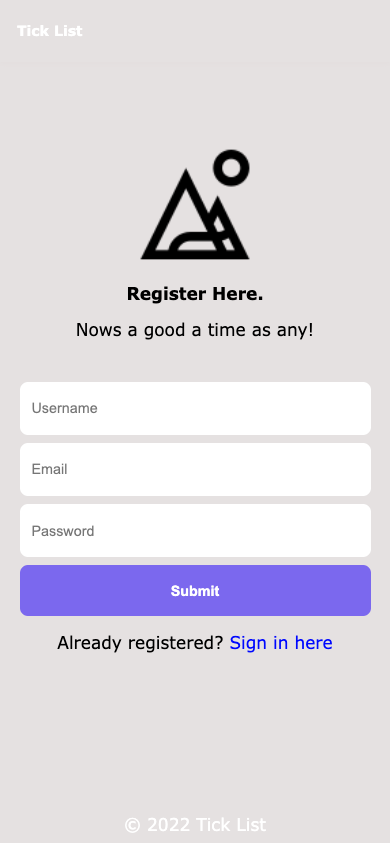
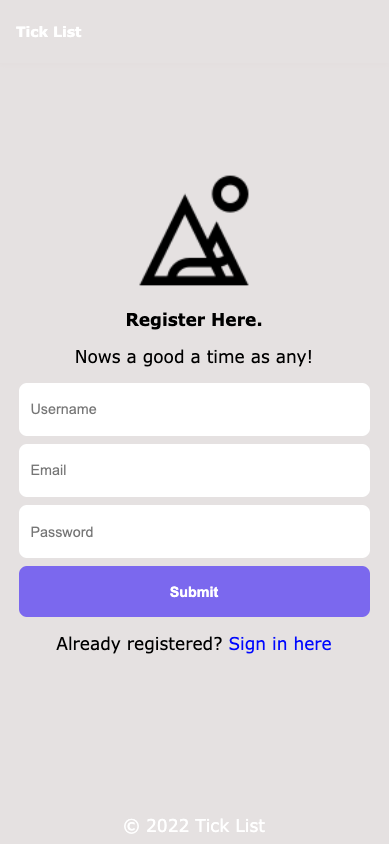
added ToggleBtn component to signin form | repositioned signin & register

diff --git a/client/src/App.js b/client/src/App.js
@@ -16,12 +16,15 @@ import Navbar from './components/Navbar/Navbar';
 import DataForm from './components/DataForm/DataForm';
 import RegisterForm from './components/RegisterForm/RegisterForm';
 import SignInForm from './components/SignInForm/SignInForm';
+import ToggleBtn from './components/ToggleBtn/ToggleBtn';
 import Profile from './pages/Profile/Profile';
 import Chart from 'react-google-charts';
 import TickList from './components/TickList/TickList';
 import Footer from './components/Footer/Footer';
 
+
 const errorLink = onError(({ graphqlErrors, networkError}) => {
+    
     if (graphqlErrors) {
         graphqlErrors.map(({ message, location, path }) => {
           return alert(`Graphql Error ${message}`);
@@ -35,6 +38,7 @@ const httpLink = from ([
 ]);
 
 const authLink = setContext((_, { headers }) => {
+
     const token = localStorage.getItem('id_token');
 
     return {
@@ -45,23 +49,32 @@ const authLink = setContext((_, { headers }) => {
     };
 });
 
-const client = new ApolloClient({
-    link: authLink.concat(httpLink),
-    cache: new InMemoryCache(),
-});
+const client = new ApolloClient(
+    {
+        link: authLink.concat(httpLink),
+        cache: new InMemoryCache(),
+    }
+);
 
 const App = () => {
+
     return (
+
         <ApolloProvider client={client}>
+
             <Router>
+
                 <Navbar />
                 <Routes>
-                    <Route path='/' exact element={ <Home RegisterForm={ RegisterForm } SignInForm={ SignInForm }/> } />
-                    <Route path='/me' exact element={ <Profile DataForm={ DataForm } Chart={ Chart } TickList={ TickList }/>} />
+                    <Route path='/' exact element={ <Home RegisterForm={ RegisterForm } SignInForm={ SignInForm } /> } />
+                    <Route path='/me' exact element={ <Profile DataForm={ DataForm } Chart={ Chart } TickList={ TickList } />} />
                 </Routes>
                 <Footer />
+
             </Router>
+
         </ApolloProvider>
+
     );
 };
 

diff --git a/client/src/components/SignInForm/SignInForm.jsx b/client/src/components/SignInForm/SignInForm.jsx
@@ -2,7 +2,7 @@ import './SignInForm.css';
 import { useState } from 'react';
 import { useMutation } from '@apollo/client';
 import { SIGNIN_USER } from '../../utils/mutations';
-
+import ToggleBtn from '../ToggleBtn/ToggleBtn';
 import Auth from '../../utils/auth';
 
 const SignInForm = ({ handleForm }) => {
@@ -66,7 +66,9 @@ const SignInForm = ({ handleForm }) => {
                 />
                 <button className='signin-btn' type='submit'> Submit </button>
                 <p> First time? <span className='toggle-signin' onClick={handleForm} > Register here </span></p>
+                <ToggleBtn />
             </form>
+            
         </section>
         
      );

diff --git a/client/src/components/SignInForm/SignInForm.css b/client/src/components/SignInForm/SignInForm.css
@@ -8,7 +8,7 @@
     align-self: center;
     height: auto;
     width: 35vw;
-    top: -5vh;
+    top: -1.35vh;
 }
 
 .signin-form {
@@ -24,7 +24,7 @@
 }
 
 .signin-form p {
-    padding: 2vh 0 5vh 0;
+    padding: 2vh 0 2vh 0;
 }
 
 .signin-form .password {

diff --git a/client/src/components/RegisterForm/RegisterForm.css b/client/src/components/RegisterForm/RegisterForm.css
@@ -24,7 +24,7 @@
 }
 
 .register-form p {
-    padding: 2vh 0 5vh 0;
+    padding: 2vh 0 2vh 0;
 }
 
 .register-form .email {
